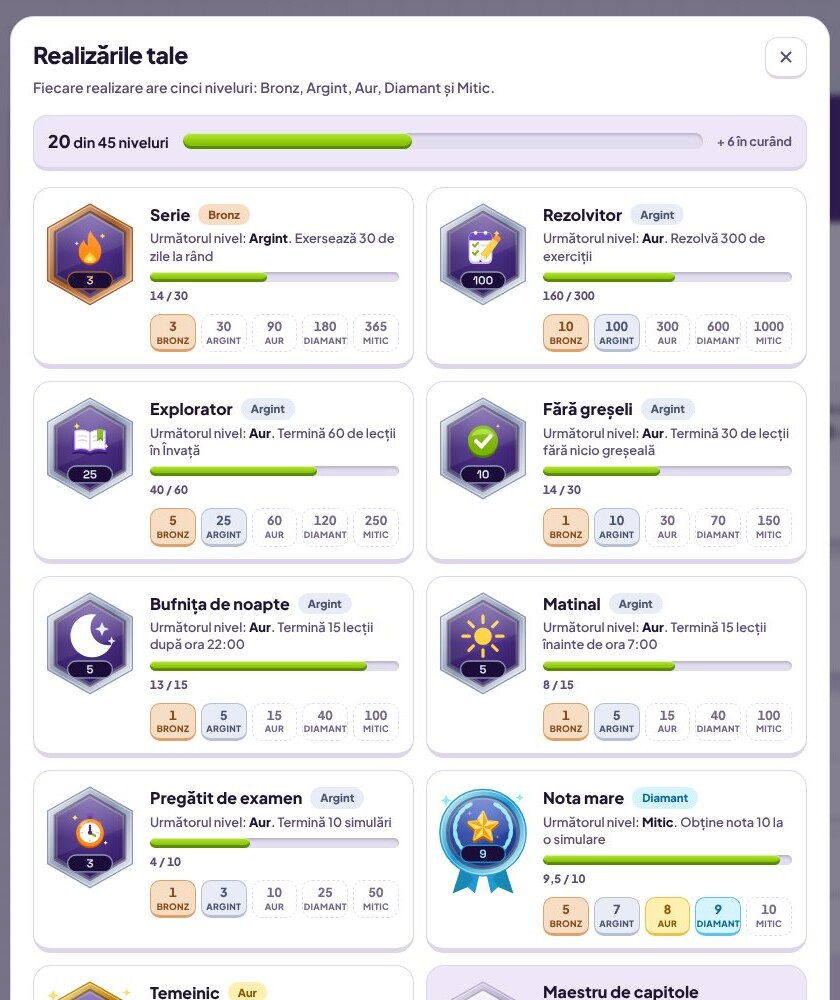
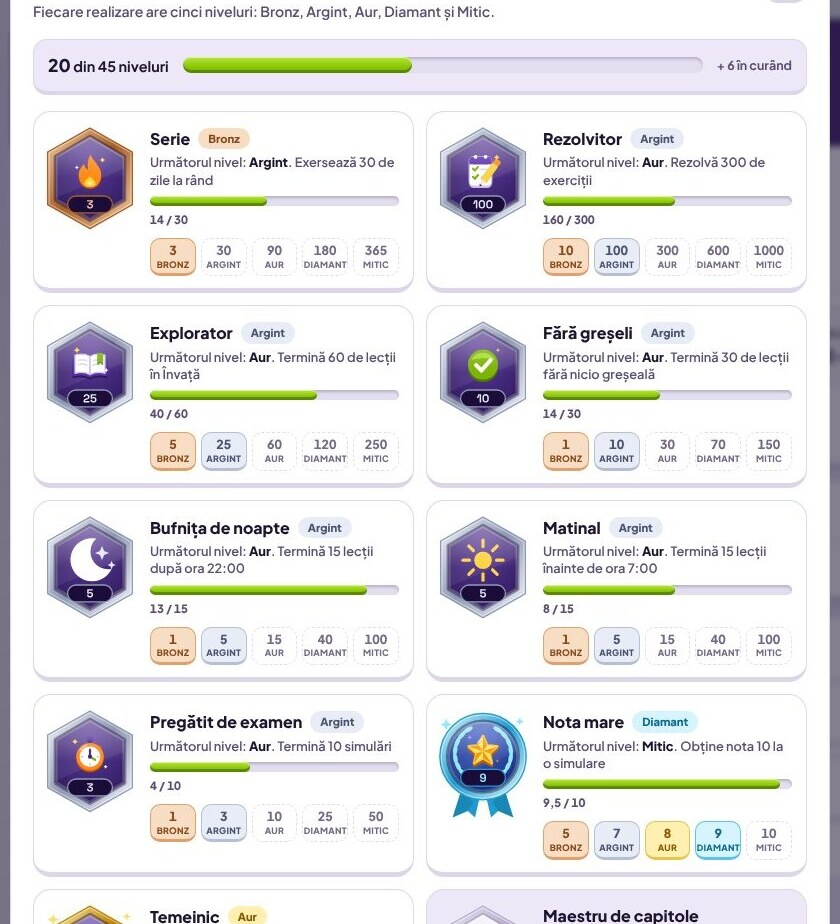
Prezentare: elemente mai mari, bufnite animate pe margini, exercitii interactive, realizari si simulari reformulate
Claude-Session: https://claude.ai/code/session_01DEDz8MFSYGpAQcMUnbrZuc

diff --git a/prezentare.html b/prezentare.html
@@ -10,7 +10,7 @@
 <link rel="preconnect" href="https://fonts.gstatic.com" crossorigin>
 <link href="https://fonts.googleapis.com/css2?family=Plus+Jakarta+Sans:wght@400;500;600;700;800&display=swap" rel="stylesheet">
 <link rel="stylesheet" href="css/owl.css">
-<link rel="stylesheet" href="css/prezentare.css?v=2">
+<link rel="stylesheet" href="css/prezentare.css?v=3">
 </head>
 <body>
 <div id="viewport"><div id="stage">
@@ -39,7 +39,7 @@
 
 <section class="slide s-pic" data-title="Lecția următoare">
 <div class="copy"><p class="kicker">Clase</p><h2>Știe mereu ce lecție urmează</h2><div class="cos"><div class="co rv"><img src="assets/images/class/lectie.svg" alt=""><b>Lecția de azi, la vedere</b></div><div class="co rv"><img src="assets/images/class/meet.svg" alt=""><b>Intră la lecție cu un buton</b></div><div class="co rv"><img src="assets/images/class/cod.svg" alt=""><b>Sala se deschide singură</b></div></div></div>
-<div class="media"><figure class="frame"><div class="bar"><i></i><i></i><i></i><span>Clase</span></div><img src="assets/prezentare/clase-elev.jpg" alt="Clase"></figure></div>
+<div class="media"><figure class="frame"><div class="bar"><i></i><i></i><i></i><span>Clase</span></div><img src="assets/prezentare/clase-elev.jpg" alt="Clase"></figure></div><div class="eo bl" data-owl="happy"></div>
 </section>
 
 <section class="slide s-pic rev" data-title="Învață">
@@ -47,20 +47,25 @@
 <div class="media"><figure class="frame"><div class="bar"><i></i><i></i><i></i><span>Învață</span></div><img src="assets/prezentare/parcurs.jpg" alt="Învață"></figure></div>
 </section>
 
-<section class="slide s-duo" data-title="Capitole">
-<p class="kicker">Învață</p><h2>Pe capitole, și cu tema închisă</h2><div class="row c2"><figure class="it"><div class="fix"><figure class="frame nobar" style="--h:700px"><img src="assets/prezentare/capitole-ecran.jpg" alt="Capitolele"></figure></div><span class="cap ">Capitolele</span></figure><figure class="it"><div class="fix"><figure class="frame nobar" style="--h:700px"><img src="assets/prezentare/parcurs-dark.jpg" alt="Tema închisă"></figure></div><span class="cap ">Tema închisă</span></figure></div>
+<section class="slide s-pic rev" data-title="Capitole">
+<div class="copy"><p class="kicker">Învață</p><h2>Capitolele</h2><div class="cos"><div class="co rv"><img src="assets/images/tabs/invata.svg" alt=""><b>Progres pe fiecare capitol</b></div><div class="co rv"><img src="assets/images/gamification/bifa.svg" alt=""><b>Continuă de unde a rămas</b></div><div class="co rv"><img src="assets/images/path/lacat.svg" alt=""><b>Capitole noi, în pregătire</b></div></div></div>
+<div class="media"><figure class="frame"><div class="bar"><i></i><i></i><i></i><span>Învață</span></div><img src="assets/prezentare/capitole-ecran.jpg" alt="Învață"></figure></div><div class="eo br" data-owl="think"></div>
 </section>
 
 <section class="slide s-duo" data-title="Exerciții în lecție">
-<p class="kicker">În lecție</p><h2>Exerciții care se mișcă</h2><div class="row c3"><figure class="it"><div class="fix"><figure class="frame nobar" style="--h:640px"><img src="assets/prezentare/l-bins.jpg" alt="Trage în cutii"></figure></div><span class="cap ">Trage în cutii</span></figure><figure class="it"><div class="fix"><figure class="frame nobar" style="--h:640px"><img src="assets/prezentare/l-rank.jpg" alt="Pune în ordine"></figure></div><span class="cap ">Pune în ordine</span></figure><figure class="it"><div class="fix"><figure class="frame nobar" style="--h:640px"><img src="assets/prezentare/l-slice.jpg" alt="Taie în părți"></figure></div><span class="cap ">Taie în părți</span></figure></div>
+<p class="kicker">În lecție</p><h2>Exerciții interactive</h2><div class="row c2"><figure class="it"><div class="fix"><figure class="frame nobar" style="--h:780px"><img src="assets/prezentare/l-bins.jpg" alt="Trage în cutii"></figure></div><span class="cap ">Trage în cutii</span></figure><figure class="it"><div class="fix"><figure class="frame nobar" style="--h:780px"><img src="assets/prezentare/l-rank.jpg" alt="Pune în ordine"></figure></div><span class="cap ">Pune în ordine</span></figure></div>
 </section>
 
 <section class="slide s-duo" data-title="Exerciții în lecție 2">
-<p class="kicker">În lecție</p><h2>Trage, mărește, umple</h2><div class="row c3"><figure class="it"><div class="fix"><figure class="frame nobar" style="--h:640px"><img src="assets/prezentare/l-zoom.jpg" alt="Găsește pe axă"></figure></div><span class="cap ">Găsește pe axă</span></figure><figure class="it"><div class="fix"><figure class="frame nobar" style="--h:640px"><img src="assets/prezentare/l-wholes.jpg" alt="Umple cercurile"></figure></div><span class="cap ">Umple cercurile</span></figure><figure class="it"><div class="fix"><figure class="frame nobar" style="--h:640px"><img src="assets/prezentare/l-correct.jpg" alt="Bufnița explică"></figure></div><span class="cap ">Bufnița explică</span></figure></div>
+<p class="kicker">În lecție</p><h2>Taie și mărește</h2><div class="row c2"><figure class="it"><div class="fix"><figure class="frame nobar" style="--h:780px"><img src="assets/prezentare/l-slice.jpg" alt="Taie în părți"></figure></div><span class="cap ">Taie în părți</span></figure><figure class="it"><div class="fix"><figure class="frame nobar" style="--h:780px"><img src="assets/prezentare/l-zoom.jpg" alt="Găsește pe axă"></figure></div><span class="cap ">Găsește pe axă</span></figure></div><div class="eo tr" data-owl="idle"></div>
+</section>
+
+<section class="slide s-duo" data-title="Exerciții în lecție 3">
+<p class="kicker">În lecție</p><h2>Umple, apoi află de ce</h2><div class="row c2"><figure class="it"><div class="fix"><figure class="frame nobar" style="--h:780px"><img src="assets/prezentare/l-wholes.jpg" alt="Umple cercurile"></figure></div><span class="cap ">Umple cercurile</span></figure><figure class="it"><div class="fix"><figure class="frame nobar" style="--h:780px"><img src="assets/prezentare/l-correct.jpg" alt="Bufnița explică"></figure></div><span class="cap ">Bufnița explică</span></figure></div>
 </section>
 
 <section class="slide s-duo" data-title="Lecție completă">
-<p class="kicker">Serie</p><h2>Lecție completă, serie nouă</h2><div class="row c3"><figure class="it"><div class="fix"><figure class="frame nobar" style="--h:640px"><img src="assets/prezentare/l-end.jpg" alt="Lecție completă!"></figure></div><span class="cap ">Lecție completă!</span></figure><figure class="it"><div class="fix"><figure class="frame nobar" style="--h:640px"><img src="assets/prezentare/l-streak.jpg" alt="Seria crește"></figure></div><span class="cap ">Seria crește</span></figure><figure class="it"><div class="fix"><figure class="frame nobar" style="--h:400px"><img src="assets/prezentare/serie-c.jpg" alt="Seria, la un clic"></figure></div><span class="cap ">Seria, la un clic</span></figure></div>
+<p class="kicker">Serie</p><h2>Lecție completă, serie nouă</h2><div class="row c3"><figure class="it"><div class="fix"><figure class="frame nobar" style="--h:640px"><img src="assets/prezentare/l-end.jpg" alt="Lecție completă!"></figure></div><span class="cap ">Lecție completă!</span></figure><figure class="it"><div class="fix"><figure class="frame nobar" style="--h:640px"><img src="assets/prezentare/l-streak.jpg" alt="Seria crește"></figure></div><span class="cap ">Seria crește</span></figure><figure class="it"><div class="fix"><figure class="frame nobar" style="--h:440px"><img src="assets/prezentare/serie-c.jpg" alt="Seria, la un clic"></figure></div><span class="cap ">Seria, la un clic</span></figure></div><div class="eo tr" data-owl="verify"></div>
 </section>
 
 <section class="slide s-pic" data-title="Misiuni">
@@ -70,7 +75,7 @@
 
 <section class="slide s-pic rev" data-title="Clasament">
 <div class="copy"><p class="kicker">Clasament</p><h2>Se întrec, prietenește</h2><div class="cos"><div class="co rv"><img src="assets/images/gamification/leaderboard.svg" alt=""><b>Podiumul celor mai buni</b></div><div class="co rv"><img src="assets/images/gamification/streak.svg" alt=""><b>XP și serie la vedere</b></div><div class="co rv"><img src="assets/images/gamification/tokenuri.svg" alt=""><b>Locul lui, mereu la îndemână</b></div></div></div>
-<div class="media fit"><figure class="frame"><div class="bar"><i></i><i></i><i></i><span>Clasament</span></div><img src="assets/prezentare/clasament-c.jpg" alt="Clasament"></figure></div>
+<div class="media fit"><figure class="frame"><div class="bar"><i></i><i></i><i></i><span>Clasament</span></div><img src="assets/prezentare/clasament-c.jpg" alt="Clasament"></figure></div><div class="eo br" data-owl="happy"></div>
 </section>
 
 <section class="slide s-pic" data-title="Profil">
@@ -79,8 +84,8 @@
 </section>
 
 <section class="slide s-pic rev" data-title="Realizări">
-<div class="copy"><p class="kicker">Realizări</p><h2>45 de niveluri de câștigat</h2><div class="cos"><div class="co rv"><img src="assets/images/gamification/realizari.svg" alt=""><b>Bronz, Argint, Aur</b></div><div class="co rv"><img src="assets/images/gamification/leaderboard.svg" alt=""><b>Diamant și Mitic</b></div><div class="co rv"><img src="assets/images/gamification/bifa.svg" alt=""><b>Ținta următoare, la vedere</b></div></div></div>
-<div class="media fit"><figure class="frame"><div class="bar"><i></i><i></i><i></i><span>Realizările tale</span></div><img src="assets/prezentare/realizari-c.jpg" alt="Realizările tale"></figure></div>
+<div class="copy"><p class="kicker">Realizări</p><h2>Realizări care evoluează</h2><div class="cos"><div class="co rv"><img src="assets/images/gamification/realizari.svg" alt=""><b>5 niveluri de evoluție pentru fiecare realizare</b></div><div class="co rv"><img src="assets/images/gamification/xp.svg" alt=""><b>Bara arată cât mai e până la următorul nivel</b></div><div class="co rv"><img src="assets/images/gamification/bifa.svg" alt=""><b>Le vede pe toate, chiar și pe cele blocate</b></div></div></div>
+<div class="media fit"><figure class="frame"><div class="bar"><i></i><i></i><i></i><span>Realizările tale</span></div><img src="assets/prezentare/realizari-c.jpg" alt="Realizările tale"></figure></div><div class="eo br" data-owl="idle"></div>
 </section>
 
 <section class="slide s-pic" data-title="Exerciții">
@@ -89,16 +94,16 @@
 </section>
 
 <section class="slide s-duo" data-title="Antrenament">
-<p class="kicker">Antrenament</p><h2>Un antrenament pe măsură</h2><div class="row c2"><figure class="it"><div class="fix"><figure class="frame" style="--h:600px"><div class="bar"><i></i><i></i><i></i><span>Antrenament</span></div><img src="assets/prezentare/antrenament.jpg" alt="Alege felul"></figure></div><span class="cap ">Alege felul</span></figure><figure class="it"><div class="fix"><figure class="frame" style="--h:600px"><div class="bar"><i></i><i></i><i></i><span>Antrenament</span></div><img src="assets/prezentare/antrenament-tipuri.jpg" alt="Alege tipurile"></figure></div><span class="cap ">Alege tipurile</span></figure></div>
+<p class="kicker">Antrenament</p><h2>Un antrenament pe măsură</h2><div class="row c2"><figure class="it"><div class="fix"><figure class="frame" style="--h:760px"><div class="bar"><i></i><i></i><i></i><span>Antrenament</span></div><img src="assets/prezentare/antrenament.jpg" alt="Alege felul"></figure></div><span class="cap ">Alege felul</span></figure><figure class="it"><div class="fix"><figure class="frame" style="--h:760px"><div class="bar"><i></i><i></i><i></i><span>Antrenament</span></div><img src="assets/prezentare/antrenament-tipuri.jpg" alt="Alege tipurile"></figure></div><span class="cap ">Alege tipurile</span></figure></div><div class="eo tr" data-owl="happy"></div>
 </section>
 
 <section class="slide s-pic rev" data-title="Simulare">
-<div class="copy"><p class="kicker">Simulare</p><h2>Simulări ca la examen</h2><div class="cos"><div class="co rv"><img src="assets/images/tabs/simulare.svg" alt=""><b>BAC și Evaluare Națională</b></div><div class="co rv"><img src="assets/images/simulare/poze.svg" alt=""><b>Pe canvas sau cu poze</b></div><div class="co rv"><img src="assets/images/gamification/tokenuri.svg" alt=""><b>Notă la final</b></div></div></div>
+<div class="copy"><p class="kicker">Simulare</p><h2>Simulări ca la examen</h2><div class="cos"><div class="co rv"><img src="assets/images/class/tip-ai.svg" alt=""><b>Verificate de AI, după baremul oficial al Republicii Moldova</b></div><div class="co rv"><img src="assets/images/tabs/simulare.svg" alt=""><b>BAC și Evaluare Națională</b></div><div class="co rv"><img src="assets/images/simulare/poze.svg" alt=""><b>Pe canvas sau cu poze</b></div><div class="co rv"><img src="assets/images/gamification/tokenuri.svg" alt=""><b>Notă la final</b></div></div></div>
 <div class="media"><figure class="frame"><div class="bar"><i></i><i></i><i></i><span>Simulare</span></div><img src="assets/prezentare/simulare.jpg" alt="Simulare"></figure></div>
 </section>
 
 <section class="slide s-duo" data-title="Clasa elevului">
-<p class="kicker">Clase</p><h2>Clasa lui, într-un loc</h2><div class="row c2"><figure class="it"><div class="fix"><figure class="frame" style="--h:600px"><div class="bar"><i></i><i></i><i></i><span>Mesaje</span></div><img src="assets/prezentare/clasa-elev2.jpg" alt="Mesaje cu profesorul"></figure></div><span class="cap ">Mesaje cu profesorul</span></figure><figure class="it"><div class="fix"><figure class="frame" style="--h:600px"><div class="bar"><i></i><i></i><i></i><span>Teme</span></div><img src="assets/prezentare/clasa-elev-teme.jpg" alt="Temele, cu termen"></figure></div><span class="cap ">Temele, cu termen</span></figure></div>
+<p class="kicker">Clase</p><h2>Clasa lui, într-un loc</h2><div class="row c2"><figure class="it"><div class="fix"><figure class="frame" style="--h:760px"><div class="bar"><i></i><i></i><i></i><span>Mesaje</span></div><img src="assets/prezentare/clasa-elev2.jpg" alt="Mesaje cu profesorul"></figure></div><span class="cap ">Mesaje cu profesorul</span></figure><figure class="it"><div class="fix"><figure class="frame" style="--h:760px"><div class="bar"><i></i><i></i><i></i><span>Teme</span></div><img src="assets/prezentare/clasa-elev-teme.jpg" alt="Temele, cu termen"></figure></div><span class="cap ">Temele, cu termen</span></figure></div><div class="eo tr" data-owl="think"></div>
 </section>
 
 <section class="slide s-pic" data-title="Tabla elevului">
@@ -107,11 +112,11 @@
 </section>
 
 <section class="slide s-duo" data-title="Pe telefon">
-<p class="kicker">Pe telefon</p><h2>Și pe telefon</h2><div class="row c4" style="margin-top:20px"><figure class="it"><div class="phone"><img src="assets/prezentare/t-parcurs.jpg" alt=""></div><span class="cap">Învață</span></figure><figure class="it"><div class="phone"><img src="assets/prezentare/t-clase.jpg" alt=""></div><span class="cap">Clase</span></figure><figure class="it"><div class="phone"><img src="assets/prezentare/t-misiuni.jpg" alt=""></div><span class="cap">Misiuni</span></figure><figure class="it"><div class="phone"><img src="assets/prezentare/t-profil.jpg" alt=""></div><span class="cap">Profil</span></figure></div>
+<p class="kicker">Pe telefon</p><h2>Și pe telefon</h2><div class="row c4" style="margin-top:20px"><figure class="it"><div class="phone"><img src="assets/prezentare/t-parcurs.jpg" alt=""></div><span class="cap">Învață</span></figure><figure class="it"><div class="phone"><img src="assets/prezentare/t-clase.jpg" alt=""></div><span class="cap">Clase</span></figure><figure class="it"><div class="phone"><img src="assets/prezentare/t-misiuni.jpg" alt=""></div><span class="cap">Misiuni</span></figure><figure class="it"><div class="phone"><img src="assets/prezentare/t-profil.jpg" alt=""></div><span class="cap">Profil</span></figure></div><div class="eo tr" data-owl="idle"></div>
 </section>
 
 <section class="slide s-rec" data-title="Recapitulare elev">
-<p class="kicker">Pe scurt</p><h2>Tot ce primește elevul</h2><div class="rec"><div class="it rv"><img src="assets/images/tabs/invata.svg" alt=""><b>Lecții scurte</b></div><div class="it rv"><img src="assets/images/tabs/exercitii.svg" alt=""><b>Exerciții</b></div><div class="it rv"><img src="assets/images/tabs/antrenament.svg" alt=""><b>Antrenament</b></div><div class="it rv"><img src="assets/images/tabs/simulare.svg" alt=""><b>Simulări</b></div><div class="it rv"><img src="assets/images/gamification/misiuni.svg" alt=""><b>Misiuni</b></div><div class="it rv"><img src="assets/images/gamification/streak.svg" alt=""><b>Serie zilnică</b></div><div class="it rv"><img src="assets/images/gamification/xp.svg" alt=""><b>Nivel și XP</b></div><div class="it rv"><img src="assets/images/gamification/realizari.svg" alt=""><b>Realizări</b></div><div class="it rv"><img src="assets/images/gamification/leaderboard.svg" alt=""><b>Clasament</b></div><div class="it rv"><img src="assets/images/tabs/clase.svg" alt=""><b>Clasa lui</b></div><div class="it rv"><img src="assets/images/class/tabla.svg" alt=""><b>Tabla live</b></div><div class="it rv"><img src="assets/images/class/meet.svg" alt=""><b>Intră la lecție</b></div></div>
+<p class="kicker">Pe scurt</p><h2>Tot ce primește elevul</h2><div class="rec"><div class="it rv"><img src="assets/images/tabs/invata.svg" alt=""><b>Lecții scurte</b></div><div class="it rv"><img src="assets/images/tabs/exercitii.svg" alt=""><b>Exerciții</b></div><div class="it rv"><img src="assets/images/tabs/antrenament.svg" alt=""><b>Antrenament</b></div><div class="it rv"><img src="assets/images/tabs/simulare.svg" alt=""><b>Simulări</b></div><div class="it rv"><img src="assets/images/gamification/misiuni.svg" alt=""><b>Misiuni</b></div><div class="it rv"><img src="assets/images/gamification/streak.svg" alt=""><b>Serie zilnică</b></div><div class="it rv"><img src="assets/images/gamification/xp.svg" alt=""><b>Nivel și XP</b></div><div class="it rv"><img src="assets/images/gamification/realizari.svg" alt=""><b>Realizări</b></div><div class="it rv"><img src="assets/images/gamification/leaderboard.svg" alt=""><b>Clasament</b></div><div class="it rv"><img src="assets/images/tabs/clase.svg" alt=""><b>Clasa lui</b></div><div class="it rv"><img src="assets/images/class/tabla.svg" alt=""><b>Tabla live</b></div><div class="it rv"><img src="assets/images/class/meet.svg" alt=""><b>Intră la lecție</b></div></div><div class="eo tr" data-owl="idle"></div>
 </section>
 
 <section class="slide s-hero" data-title="Pentru profesor">
@@ -120,7 +125,7 @@
 
 <section class="slide s-pic" data-title="Clasele profesorului">
 <div class="copy"><p class="kicker">Clase</p><h2>Clasele apar singure</h2><div class="cos"><div class="co rv"><img src="assets/images/class/registru.svg" alt=""><b>Din registrul lui</b></div><div class="co rv"><img src="assets/images/class/cod.svg" alt=""><b>Cod de invitație</b></div><div class="co rv"><img src="assets/images/class/elevi-ora.svg" alt=""><b>Cererile le acceptă el</b></div></div></div>
-<div class="media"><figure class="frame"><div class="bar"><i></i><i></i><i></i><span>Clase</span></div><img src="assets/prezentare/clase-prof.jpg" alt="Clase"></figure></div>
+<div class="media"><figure class="frame"><div class="bar"><i></i><i></i><i></i><span>Clase</span></div><img src="assets/prezentare/clase-prof.jpg" alt="Clase"></figure></div><div class="eo bl" data-owl="verify"></div>
 </section>
 
 <section class="slide s-pic rev" data-title="O clasă">
@@ -129,7 +134,7 @@
 </section>
 
 <section class="slide s-duo" data-title="Teme și simulări">
-<p class="kicker">Clasa</p><h2>Teme și simulări</h2><div class="row c2"><figure class="it"><div class="fix"><figure class="frame" style="--h:600px"><div class="bar"><i></i><i></i><i></i><span>Teme</span></div><img src="assets/prezentare/clasa-teme.jpg" alt="Teme cu termen"></figure></div><span class="cap ">Teme cu termen</span></figure><figure class="it"><div class="fix"><figure class="frame" style="--h:600px"><div class="bar"><i></i><i></i><i></i><span>Simulări</span></div><img src="assets/prezentare/clasa-simulari.jpg" alt="Simulări programate"></figure></div><span class="cap ">Simulări programate</span></figure></div>
+<p class="kicker">Clasa</p><h2>Teme și simulări</h2><div class="row c2"><figure class="it"><div class="fix"><figure class="frame" style="--h:760px"><div class="bar"><i></i><i></i><i></i><span>Teme</span></div><img src="assets/prezentare/clasa-teme.jpg" alt="Teme cu termen"></figure></div><span class="cap ">Teme cu termen</span></figure><figure class="it"><div class="fix"><figure class="frame" style="--h:760px"><div class="bar"><i></i><i></i><i></i><span>Simulări</span></div><img src="assets/prezentare/clasa-simulari.jpg" alt="Simulări programate"></figure></div><span class="cap ">Simulări programate</span></figure></div><div class="eo tr" data-owl="happy"></div>
 </section>
 
 <section class="slide s-pic" data-title="Tabla profesorului">
@@ -138,7 +143,7 @@
 </section>
 
 <section class="slide s-duo" data-title="Formule și figuri">
-<p class="kicker">Tabla live</p><h2>Formule și figuri</h2><div class="row c2"><figure class="it"><div class="fix"><figure class="frame" style="--h:600px"><div class="bar"><i></i><i></i><i></i><span>Tabla live</span></div><img src="assets/prezentare/tabla-formule.jpg" alt="Formule scrise cu tastatura"></figure></div><span class="cap ">Formule scrise cu tastatura</span></figure><figure class="it"><div class="fix"><figure class="frame" style="--h:600px"><div class="bar"><i></i><i></i><i></i><span>Tabla live</span></div><img src="assets/prezentare/tabla-figuri.jpg" alt="Figuri 2D și 3D"></figure></div><span class="cap ">Figuri 2D și 3D</span></figure></div>
+<p class="kicker">Tabla live</p><h2>Formule și figuri</h2><div class="row c2"><figure class="it"><div class="fix"><figure class="frame" style="--h:760px"><div class="bar"><i></i><i></i><i></i><span>Tabla live</span></div><img src="assets/prezentare/tabla-formule.jpg" alt="Formule scrise cu tastatura"></figure></div><span class="cap ">Formule scrise cu tastatura</span></figure><figure class="it"><div class="fix"><figure class="frame" style="--h:760px"><div class="bar"><i></i><i></i><i></i><span>Tabla live</span></div><img src="assets/prezentare/tabla-figuri.jpg" alt="Figuri 2D și 3D"></figure></div><span class="cap ">Figuri 2D și 3D</span></figure></div><div class="eo tr" data-owl="idle"></div>
 </section>
 
 <section class="slide s-pic rev" data-title="Biblioteca">
@@ -148,7 +153,7 @@
 
 <section class="slide s-pic" data-title="Adaugă exerciții">
 <div class="copy"><p class="kicker">Exerciții</p><h2>Exerciții noi, cu AI</h2><div class="cos"><div class="co rv"><img src="assets/images/class/tip-ai.svg" alt=""><b>Fotografie, analizată de AI</b></div><div class="co rv"><img src="assets/images/class/teme.svg" alt=""><b>Baremul se construiește</b></div><div class="co rv"><img src="assets/images/tabs/exercitii.svg" alt=""><b>Intră în banca de exerciții</b></div></div></div>
-<div class="media"><figure class="frame"><div class="bar"><i></i><i></i><i></i><span>Adaugă exercițiu</span></div><img src="assets/prezentare/adauga.jpg" alt="Adaugă exercițiu"></figure></div>
+<div class="media"><figure class="frame"><div class="bar"><i></i><i></i><i></i><span>Adaugă exercițiu</span></div><img src="assets/prezentare/adauga.jpg" alt="Adaugă exercițiu"></figure></div><div class="eo bl" data-owl="happy"></div>
 </section>
 
 <section class="slide s-pic" data-title="Botul din Telegram">
@@ -164,11 +169,11 @@
 </section>
 
 <section class="slide s-duo" data-title="Profilul profesorului">
-<p class="kicker">Profil</p><h2>Profil și realizări</h2><div class="row c2"><figure class="it"><div class="fix"><figure class="frame" style="--h:640px"><div class="bar"><i></i><i></i><i></i><span>Profil</span></div><img src="assets/prezentare/profil-prof-c.jpg" alt="Registru, Biblioteca, Telegram"></figure></div><span class="cap ">Registru, Biblioteca, Telegram</span></figure><figure class="it"><div class="fix"><figure class="frame" style="--h:640px"><div class="bar"><i></i><i></i><i></i><span>Realizări</span></div><img src="assets/prezentare/realizari-prof-c.jpg" alt="Realizări și pentru profesori"></figure></div><span class="cap ">Realizări și pentru profesori</span></figure></div>
+<p class="kicker">Profil</p><h2>Profil și realizări</h2><div class="row c2"><figure class="it"><div class="fix"><figure class="frame" style="--h:700px"><div class="bar"><i></i><i></i><i></i><span>Profil</span></div><img src="assets/prezentare/profil-prof-c.jpg" alt="Registru, Biblioteca, Telegram"></figure></div><span class="cap ">Registru, Biblioteca, Telegram</span></figure><figure class="it"><div class="fix"><figure class="frame" style="--h:700px"><div class="bar"><i></i><i></i><i></i><span>Realizări</span></div><img src="assets/prezentare/realizari-prof-c.jpg" alt="Realizări și pentru profesori"></figure></div><span class="cap ">Realizări și pentru profesori</span></figure></div>
 </section>
 
 <section class="slide s-rec" data-title="Recapitulare profesor">
-<p class="kicker">Pe scurt</p><h2>Tot ce primește profesorul</h2><div class="rec"><div class="it rv"><img src="assets/images/tabs/clase.svg" alt=""><b>Clase din registru</b></div><div class="it rv"><img src="assets/images/class/teme.svg" alt=""><b>Teme</b></div><div class="it rv"><img src="assets/images/class/simulari.svg" alt=""><b>Simulări</b></div><div class="it rv"><img src="assets/images/class/medie.svg" alt=""><b>Catalog</b></div><div class="it rv"><img src="assets/images/class/tabla.svg" alt=""><b>Tabla live</b></div><div class="it rv"><img src="assets/images/class/matematica.svg" alt=""><b>Formule pe tablă</b></div><div class="it rv"><img src="assets/images/profile/btn-biblioteca.svg" alt=""><b>Biblioteca</b></div><div class="it rv"><img src="assets/images/profile/btn-exercitiu.svg" alt=""><b>Exerciții noi</b></div><div class="it rv"><img src="assets/images/class/mesaje.svg" alt=""><b>Telegram</b></div><div class="it rv"><img src="assets/images/class/meet.svg" alt=""><b>Meet</b></div><div class="it rv"><img src="assets/images/class/program.svg" alt=""><b>Mută lecțiile</b></div><div class="it rv"><img src="assets/images/gamification/realizari.svg" alt=""><b>Realizări</b></div></div>
+<p class="kicker">Pe scurt</p><h2>Tot ce primește profesorul</h2><div class="rec"><div class="it rv"><img src="assets/images/tabs/clase.svg" alt=""><b>Clase din registru</b></div><div class="it rv"><img src="assets/images/class/teme.svg" alt=""><b>Teme</b></div><div class="it rv"><img src="assets/images/class/simulari.svg" alt=""><b>Simulări</b></div><div class="it rv"><img src="assets/images/class/medie.svg" alt=""><b>Catalog</b></div><div class="it rv"><img src="assets/images/class/tabla.svg" alt=""><b>Tabla live</b></div><div class="it rv"><img src="assets/images/class/matematica.svg" alt=""><b>Formule pe tablă</b></div><div class="it rv"><img src="assets/images/profile/btn-biblioteca.svg" alt=""><b>Biblioteca</b></div><div class="it rv"><img src="assets/images/profile/btn-exercitiu.svg" alt=""><b>Exerciții noi</b></div><div class="it rv"><img src="assets/images/class/mesaje.svg" alt=""><b>Telegram</b></div><div class="it rv"><img src="assets/images/class/meet.svg" alt=""><b>Meet</b></div><div class="it rv"><img src="assets/images/class/program.svg" alt=""><b>Mută lecțiile</b></div><div class="it rv"><img src="assets/images/gamification/realizari.svg" alt=""><b>Realizări</b></div></div><div class="eo tr" data-owl="think"></div>
 </section>
 
 <section class="slide s-hero" data-title="Pentru manageri">
@@ -192,7 +197,7 @@
 
 <section class="slide s-pic rev" data-title="Înscriere">
 <div class="copy"><p class="kicker">Consola</p><h2>Înscrierea unui elev</h2><div class="cos"><div class="co rv"><img src="assets/images/admin/inscriere.svg" alt=""><b>Elev nou în câteva clicuri</b></div><div class="co rv"><img src="assets/images/class/registru.svg" alt=""><b>Scrie direct în registru</b></div><div class="co rv"><img src="assets/images/class/cod.svg" alt=""><b>Cod de invitație la clasă</b></div></div></div>
-<div class="media"><figure class="frame"><div class="bar"><i></i><i></i><i></i><span>Înscriere</span></div><img src="assets/prezentare/inscriere.jpg" alt="Înscriere"></figure></div>
+<div class="media"><figure class="frame"><div class="bar"><i></i><i></i><i></i><span>Înscriere</span></div><img src="assets/prezentare/inscriere.jpg" alt="Înscriere"></figure></div><div class="eo br" data-owl="idle"></div>
 </section>
 
 <section class="slide s-pic" data-title="Repartizare">
@@ -202,11 +207,11 @@
 
 <section class="slide s-pic rev" data-title="Recepție">
 <div class="copy"><p class="kicker">Consola</p><h2>Recepția, pe ecran</h2><div class="cos"><div class="co rv"><img src="assets/images/admin/receptie.svg" alt=""><b>Lecțiile de acum</b></div><div class="co rv"><img src="assets/images/class/lectie.svg" alt=""><b>Cabinet și ora</b></div><div class="co rv"><img src="assets/images/admin/analitica.svg" alt=""><b>Prezența, pe scurt</b></div></div></div>
-<div class="media"><figure class="frame"><div class="bar"><i></i><i></i><i></i><span>Recepție</span></div><img src="assets/prezentare/receptie.jpg" alt="Recepție"></figure></div>
+<div class="media"><figure class="frame"><div class="bar"><i></i><i></i><i></i><span>Recepție</span></div><img src="assets/prezentare/receptie.jpg" alt="Recepție"></figure></div><div class="eo br" data-owl="verify"></div>
 </section>
 
 <section class="slide s-rec" data-title="Recapitulare manageri">
-<p class="kicker">Pe scurt</p><h2>Tot ce primește managerul</h2><div class="rec"><div class="it rv"><img src="assets/images/admin/orar.svg" alt=""><b>Orar</b></div><div class="it rv"><img src="assets/images/admin/elevi.svg" alt=""><b>Elevi</b></div><div class="it rv"><img src="assets/images/admin/inscriere.svg" alt=""><b>Înscriere</b></div><div class="it rv"><img src="assets/images/admin/starturi.svg" alt=""><b>Starturi de grupe</b></div><div class="it rv"><img src="assets/images/admin/schimbari.svg" alt=""><b>Schimbări de lecții</b></div><div class="it rv"><img src="assets/images/admin/repartizare.svg" alt=""><b>Cabinete</b></div><div class="it rv"><img src="assets/images/admin/inlocuiri.svg" alt=""><b>Înlocuiri</b></div><div class="it rv"><img src="assets/images/admin/receptie.svg" alt=""><b>Recepție</b></div><div class="it rv"><img src="assets/images/admin/disponibilitate.svg" alt=""><b>Disponibilitate</b></div><div class="it rv"><img src="assets/images/admin/analitica.svg" alt=""><b>Analitică</b></div><div class="it rv"><img src="assets/images/admin/sincronizare.svg" alt=""><b>Sincronizare</b></div><div class="it rv"><img src="assets/images/admin/info.svg" alt=""><b>Pași, pe scurt</b></div></div>
+<p class="kicker">Pe scurt</p><h2>Tot ce primește managerul</h2><div class="rec"><div class="it rv"><img src="assets/images/admin/orar.svg" alt=""><b>Orar</b></div><div class="it rv"><img src="assets/images/admin/elevi.svg" alt=""><b>Elevi</b></div><div class="it rv"><img src="assets/images/admin/inscriere.svg" alt=""><b>Înscriere</b></div><div class="it rv"><img src="assets/images/admin/starturi.svg" alt=""><b>Starturi de grupe</b></div><div class="it rv"><img src="assets/images/admin/schimbari.svg" alt=""><b>Schimbări de lecții</b></div><div class="it rv"><img src="assets/images/admin/repartizare.svg" alt=""><b>Cabinete</b></div><div class="it rv"><img src="assets/images/admin/inlocuiri.svg" alt=""><b>Înlocuiri</b></div><div class="it rv"><img src="assets/images/admin/receptie.svg" alt=""><b>Recepție</b></div><div class="it rv"><img src="assets/images/admin/disponibilitate.svg" alt=""><b>Disponibilitate</b></div><div class="it rv"><img src="assets/images/admin/analitica.svg" alt=""><b>Analitică</b></div><div class="it rv"><img src="assets/images/admin/sincronizare.svg" alt=""><b>Sincronizare</b></div><div class="it rv"><img src="assets/images/admin/info.svg" alt=""><b>Pași, pe scurt</b></div></div><div class="eo tr" data-owl="verify"></div>
 </section>
 
 <section class="slide s-hero" data-title="Ce urmează">

diff --git a/css/prezentare.css b/css/prezentare.css
@@ -261,3 +261,37 @@ body.hud-on #hud { opacity: 1; }
 .s-hero .pts.dk .pt b { color: #fff; }
 .s-pic .cmds { margin-top: 26px; grid-template-columns: repeat(3, 1fr); }
 .s-pic .tg { width: 100%; max-width: 660px; margin: 0 auto; }
+
+/* ---------- v3: mai mari, mai putin spatiu gol, bufnite pe margini ---------- */
+.slide { overflow: hidden; }
+.s-pic { grid-template-columns: 470px minmax(0, 1fr); gap: 40px; padding: 38px 46px 42px; }
+.s-pic.rev { grid-template-columns: minmax(0, 1fr) 470px; }
+.s-pic h2 { font-size: 66px; line-height: 1.03; }
+.s-pic .kicker, .s-duo .kicker, .s-rec .kicker { font-size: 24px; margin-bottom: 16px; }
+.cos { gap: 20px; margin-top: 34px; }
+.co { grid-template-columns: 88px 1fr; gap: 22px; padding: 18px 26px 18px 18px; border-radius: 28px; box-shadow: 0 7px 0 var(--pm-edge); }
+.co img { width: 88px; height: 88px; }
+.co b { font-size: 35px; line-height: 1.16; }
+.s-pic .frame { border-radius: 30px; }
+.s-pic .frame .bar { padding: 15px 22px; }
+.s-pic .frame .bar span { font-size: 21px; }
+.s-pic .frame img { max-height: none; }
+.s-pic .media.fit .frame img { max-height: 900px; }
+.s-duo { padding: 38px 52px 40px; }
+.s-duo h2, .s-rec h2 { font-size: 66px; }
+.s-duo .row { margin-top: 18px; gap: 36px; }
+.cap { font-size: 36px; padding: 14px 34px; }
+.s-duo .phone { width: 340px; }
+.s-rec { padding: 38px 52px 40px; }
+.rec { gap: 26px; margin-top: 30px; }
+.rec .it { padding: 30px 20px 34px; gap: 18px; border-radius: 30px; }
+.rec .it img { width: 132px; height: 132px; }
+.rec .it b { font-size: 38px; }
+.eo { position: absolute; width: 200px; height: 200px; pointer-events: none; z-index: 4; }
+.eo > * { width: 100%; height: 100%; }
+.eo.bl { left: 62px; bottom: -34px; }
+.eo.br { right: 62px; bottom: -34px; }
+.eo.tr { right: 60px; top: 14px; width: 170px; height: 170px; }
+.s-hero .pts.dk .pt b { font-size: 36px; }
+.s-hero .pts.dk .pt { padding: 22px 28px; }
+.card h3 { font-size: 44px; } .card p { font-size: 31px; } .card .ic { width: 120px; height: 120px; }

diff --git a/CLAUDE.md b/CLAUDE.md
@@ -197,6 +197,7 @@ The product is for a school business. A manager enrols students and builds group
 - **Tablă live: nimic nu mai lipsește la zoom rapid (2026-11-21, mai târziu)** (`js/whiteboard.js`, blocul "The overview" și `_gridDraw`): după un zoom rapid în afară stratul clar vechi se micșora într-un dreptunghi și în jur nu era nimic până veneau dalele noi. Acum (1) există o **imagine de ansamblu** (`_ov`, un bitmap de cel mult 2560 de pixeli pe latură cu TOATĂ cerneala tablei, la rezoluție mică, 2 pixeli pe unitate cel mult) pusă sub straturile cu dale: se construiește câteva obiecte pe cadru, se ține la zi (obiect nou = se pictează pe ea, o schimbare = se repictează căsuța atinsă, ceva mare = se reface în fundal, cea veche rămâne pe ecran până e gata, `_ovBuild`, `_ovAdd`, `_ovRegion`, `_ovInvalidateAll`) și urmărește camera doar cu un CSS transform (`_ovXf`); se ascunde când stratul din față acoperă tot ecranul și e complet (sau fantoma acoperă) și când scara ecranului e de peste 8 ori a ei (`_layerCovers`), deci pe tablă liniștită nu costă nimic; (2) **grila e propriul ei strat** (canvas cât ecranul, între dale și cerneala live, `_gridDraw`), desenat din nou la fiecare mișcare a camerei la scara reală: o scară fixă de pași (2 x 5^n unități) ale căror linii apar treptat cum crește distanța pe ecran, fiecare linie pe un pixel întreg; dalele nu mai conțin grila (pornirea sau oprirea grilei nu mai repictează nimic), deci grila e mereu clară și corectă chiar și cât straturile de dedesubt sunt scalate. Ordinea straturilor: imagine de ansamblu 0, fantomă 1, față 2, grilă 3, cerneala live 4. Verificat în Chromium: cu pictarea dalelor oprită cu totul, după un zoom rapid în afară se văd toate liniile și grila peste tot; comparația pixel cu pixel cu o imagine pictată de la zero rămâne identică; cadre de 16,7 ms (cu imaginea de ansamblu mereu pusă erau 33 ms în browserul fără GPU, de aceea se ascunde când nu trebuie). NU pe GPU real, NU pe tabletă. Când imaginea de ansamblu apare (zoom în afară), ea e mai neclară decât dalele (rezoluție mică) și fără umplerea de hârtie pictată: e doar ce se vede până vin dalele.
 - **Profil: chei cu iconițe ilustrate, bifă la rol, aparat foto nou (2026-11-20):** (1) cheile din placa profilului (Panou admin, Registru, Adaugă exercițiu, Biblioteca, Editează profilul) au fiecare o iconiță ilustrată în limbajul bufniței (`assets/images/profile/btn-{admin,registru,exercitiu,biblioteca,editeaza,camera}.svg`, făcute de `scripts/make-profile-buttons.py`); pe telefon (până la 720px) sunt o grilă 2 x 2 de chei egale pe toată lățimea, iar dacă numărul celor vizibile e impar ultima ocupă tot rândul (`balanceActions` în `js/profile-page.js`, clasa `is-wide`, se reface când Registru apare). (2) "Fișierele tablei" se numește **Biblioteca** (și titlul ferestrei din `js/wb-files.js`). (3) În locul LED-ului verde de la "Profesor aprobat" e bifa `gamification/bifa.svg` (LED-urile galben și roșu pentru în așteptare și respins au rămas). (4) Butoanele de schimbat poza și coperta au aparatul foto ilustrat în loc de iconița cu linii. Stil în ultimul bloc din `css/premium.css`. Verificat pe mock la 390 și 1440 px, deschis și închis; NU pe cont real, iar cheia Registru a fost văzută doar în starea dezactivată.
 - **Prezentarea refăcută: puțin text, imagini mari, avantajele elevului și ale profesorului (2026-11-21):** `prezentare.html` (+ `css/prezentare.css?v=2`, `js/prezentare.js?v=2`, capturi în `assets/prezentare/`, 46 de fișiere: JPG și 3 PNG transparente ale asistentului de la prima intrare) are acum 40 de slide-uri: titlu, "o platformă, trei roluri", apoi trei părți cu separator (Elevul, Profesorul, Managerul). Fiecare slide are un titlu de 3 până la 5 cuvinte și, cel mult, trei rânduri scurte cu iconiță (`.co`, apar pe rând la apăsare) lângă o captură mare (`.s-pic`, cadrul cu bară de fereastră), sau două și trei capturi una lângă alta cu o etichetă scurtă (`.s-duo`, `.cap`), sau patru telefoane, sau o grilă de 12 iconițe "tot ce primește ..." (`.s-rec`, la sfârșitul fiecărei părți). **Elev:** prima intrare (nickname, clasa, codul clasei), lecția următoare cu "Intră la lecție", drumul lecțiilor, capitolele și tema închisă, exerciții care se mișcă (trage în cutii, pune în ordine, taie în părți, mărește axa, umple cercurile, bufnița explică), lecție completă și serie (ecranul de final, ecranul seriei, fereastra seriei), misiuni, clasament cu podium, profil cu nivel și statistici, realizările (45 de niveluri), banca de exerciții, antrenament, simulare, clasa (mesaje și teme), tabla live (comună și "Tabla mea"), telefonul. **Profesor:** clasele din registru, o clasă (pulsul grupei, Meet), teme și simulări, tabla live (comună, privată pe elev, zoom 3% la 3200%), formule și figuri, Biblioteca, adăugarea exercițiilor cu AI, asistentul din Telegram, profilul și realizările, grila de recapitulare. **Manager:** registrul ca sursă a adevărului, Orar, Înscriere, Repartizare, Recepție, grila consolei, "ce urmează". Capturile sunt făcute pe mock cu un elev de clasa a 7-a (Andrei, `@andrei_m`, serie de 12 zile, 1840 XP, 20 din 45 de niveluri la realizări) și o profesoară de test, la 1440 px (2x, fără panoul din stânga, ca textul să iasă mai mare) și 390 px pentru telefoane; scripturile de captură nu sunt în repo (erau în directorul de lucru al sesiunii: o pagină cu `BMAuth` fals și `/rest/v1/*` simulat, ca la restul testelor). Tabla din capturi a fost încărcată din rânduri simulate (desenarea cu mouse-ul în pagina de clasă nu pictează pe mock: răspunsul simulat la insert nu are forma celui real, nu e o greșeală a tablei). Taste: săgeți sau spațiu (rândurile apar pe rând), `F` ecran complet, `T` deschis/închis, `M` lista, `#n` deschide slide-ul n, `?toate` arată tot (și la tipărire PDF). NU prezentat pe proiector real sau pe telefon; exemplele din Telegram sunt ilustrative; în capturile elevului "Clasa ta" arată încă numele din mock (Matematică BAC) lângă clasa a 7-a.
+- **Prezentarea, runda a doua (2026-11-21):** (1) slide-urile cu o captură mare (`.s-pic`) au titlul de 66px, rândurile cu iconiță mai mari (`.co`: iconiță de 88px, text de 35px) într-o coloană de 470px și captura pe cât rămâne din lățime (aprox. 1360px), cu margini mici; slide-urile cu două sau trei capturi (`.s-duo`) au etichete de 36px și capturi mai mari; grila de recapitulare are iconițe de 132px. Capturile principale sunt refăcute la 2x, fără panoul din stânga. (2) **Bufnițe animate pe margini**, o dată la două slide-uri (la toate la telefoane și recapitulări): `.eo` cu `data-owl` (idle, happy, think, verify), în colțul liber (jos la coloana de text, sus în dreapta la slide-urile cu capturi alăturate), pe jumătate ieșite din ecran (`.slide` taie ce depășește). (3) Slide-ul "Pe capitole, și cu tema închisă" a devenit "Capitolele" (captura cu "tema închisă" de fapt nu era închisă: se vedea tot cu tema deschisă, deci era greșit). (4) "Exerciții care se mișcă" se numește "Exerciții interactive" și exercițiile sunt câte două pe slide (trei slide-uri), ca să se vadă mari. (5) Realizările: nu mai sunt numite treptele (Bronz, Argint ...), slide-ul spune "5 niveluri de evoluție pentru fiecare realizare" și captura nu mai arată rândul cu numele lor. (6) Simulările: slide-ul spune că sunt verificate de AI după baremul oficial al Republicii Moldova. Verificat pe capturi la 1920 x 1080, tema deschisă (închisă doar câteva); NU pe proiector.
 - **Payments are hidden** (Pachete removed from the nav, profile and BAC dialog; `pachete.html` redirects). Remove the redirect line when payments exist. Antrenament still shows a plain paywall to `plan = free` students (34 of 35 are free); the admin sets plans by hand in Conturi.
 - Real registers are not converted yet (the new template with tariffs via IMPORTRANGE from a master file; plan in `docs/registre-format-nou.md`). Everything so far ran on 27 demo registers plus the user's own linked one.
 - Meet only appears after `registru-sync` is redeployed, the link is in the register and the group's format is Online.
